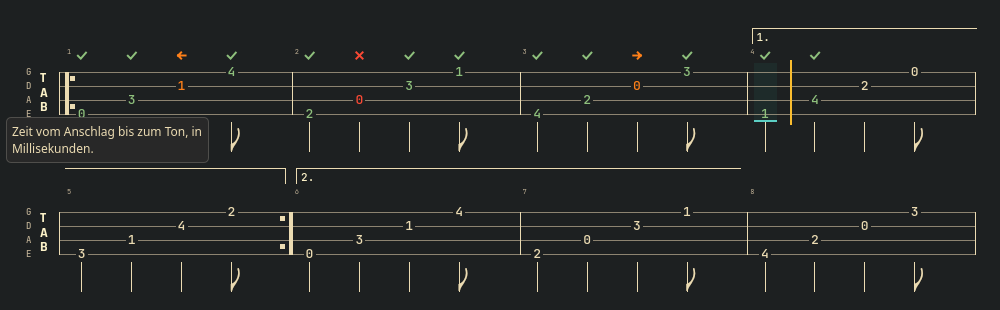
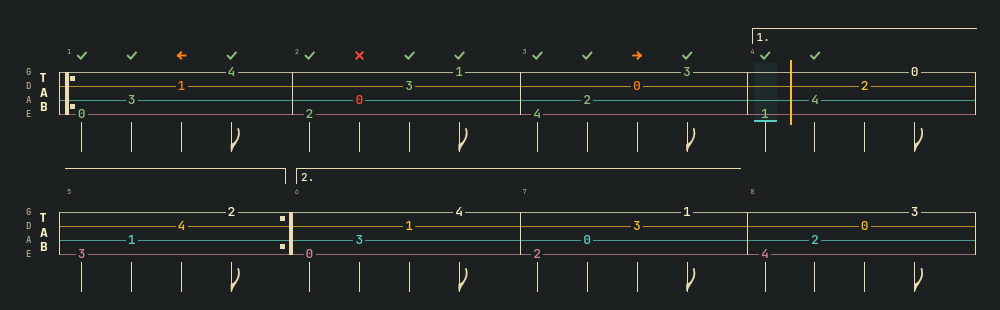
Move the string palette into KanteStyle
Owner's decision (Kontra round 8): one string palette for lane,
tablature and fretboard, so a player sees each string in the same
colour everywhere. KanteStyle gets stringPalettes ("kante", "mono",
"bright", the presets Kontra offers), stringPalette (the app's
choice), stringColor(s, preset) and stringColors(count, preset).
KanteTabStaff and KanteFretboard take stringColors like the lane; a
string left out follows the palette. "kante" is the lane's old
palette, so the lane looks the same; staff and fretboard lines were
muted and now follow it. Strings keep their names, states keep their
colours and signs. Roles only, no new tokens.

diff --git a/docs/index.html b/docs/index.html
@@ -153,23 +153,26 @@
             <li><code>KanteSegmented</code> and <code>.seg</code>: single segments can be disabled. They are faded and struck through, take no click, arrow keys skip them, and their tooltip can say why.</li>
             <li><code>KanteFieldSkin</code>: on a spin box, + or − fades when the value is at its limit.</li>
             <li><code>KanteTabStaff</code>, <code>KanteBassStaff</code>, <code>KanteTabLane</code>: bars show the number the app sends (<code>bars[i].number</code>), so repeats played out read 5, 6, 5, 6 as in the score.</li>
+            <li>String colours: the palette moves into <code>KanteStyle</code> with the presets “kante”, “mono” and “bright”; lane, tablature and fretboard share it (<code>stringColors</code>). Strings keep their names, so colour is never the only sign.</li>
           </ul>
           <ul lang="de">
             <li><code>KanteSegmented</code> und <code>.seg</code>: einzelne Segmente lassen sich abschalten. Sie sind blass und durchgestrichen, nehmen keinen Klick an, die Pfeiltasten überspringen sie, und ihr Tooltip kann sagen, warum.</li>
             <li><code>KanteFieldSkin</code>: an einem Zahlenfeld wird + oder − blass, wenn der Wert an seiner Grenze ist.</li>
             <li><code>KanteTabStaff</code>, <code>KanteBassStaff</code>, <code>KanteTabLane</code>: Takte zeigen die Nummer, die die App schickt (<code>bars[i].number</code>), ausgespielte Wiederholungen lesen sich so wie in den Noten: 5, 6, 5, 6.</li>
+            <li>Saitenfarben: die Palette zieht nach <code>KanteStyle</code>, mit den Vorgaben „kante“, „mono“ (einfarbig) und „bright“ (kräftig); Spur, Tabulatur und Griffbrett teilen sie (<code>stringColors</code>). Saiten behalten ihre Namen, die Farbe ist nie das einzige Zeichen.</li>
           </ul>
         </div>
         <div class="release-group" data-kind="note"><h3><span lang="en">Note</span><span lang="de">Hinweis</span></h3>
           <ul lang="en">
-            <li>Additions only: existing calls keep working. A tablature without <code>endings</code> keeps its layout.</li>
+            <li>Additions only: existing calls keep working. A tablature without <code>endings</code> keeps its layout. Tablature and fretboard now draw their strings in the string palette instead of muted; <code>stringPalette: "mono"</code> comes closest to the old look.</li>
           </ul>
           <ul lang="de">
-            <li>Nur Ergänzungen: bestehende Aufrufe funktionieren weiter. Eine Tabulatur ohne <code>endings</code> behält ihr Layout.</li>
+            <li>Nur Ergänzungen: bestehende Aufrufe funktionieren weiter. Eine Tabulatur ohne <code>endings</code> behält ihr Layout. Tabulatur und Griffbrett zeichnen ihre Saiten jetzt in der Saitenpalette statt gedämpft; <code>stringPalette: "mono"</code> kommt dem alten Bild am nächsten.</li>
           </ul>
         </div>
         <div class="release-shots">
           <figure><img src="shots/release-1.28-wishes2-controls.png" alt="Segmented controls with struck-through disabled segments, an open info tip and five spin boxes in Kante" loading="lazy"><figcaption><span lang="en">Disabled segments, info tip and spin boxes (demo data)</span><span lang="de">Abgeschaltete Segmente, Info-Tipp und Zahlenfelder (Demodaten)</span></figcaption></figure>
+          <figure><img src="shots/release-1.28-strings.png" alt="Lane, tablature and fretboard in the string palettes kante, mono and bright" loading="lazy"><figcaption><span lang="en">String palettes kante, mono, bright (demo data)</span><span lang="de">Saitenpaletten kante, mono, bright (Demodaten)</span></figcaption></figure>
           <figure><img src="shots/release-1.28-volta.png" alt="Tablature with a first ending across a line break, closed after the repeat sign, and an open second ending" loading="lazy"><figcaption><span lang="en">Volta brackets in the tablature (demo data)</span><span lang="de">Wiederholungsklammern in der Tabulatur (Demodaten)</span></figcaption></figure>
         </div>
         <a class="release-notes" href="https://github.com/shrippen/Kante/blob/main/README.md#added-in-kante-128"><span lang="en">All changes in 1.28 →</span><span lang="de">Alle Änderungen in 1.28 →</span></a>

diff --git a/proposals/2026-10-kontra/bauteile.html b/proposals/2026-10-kontra/bauteile.html
@@ -27,6 +27,7 @@
 <section><h2 class="block-title">1.27 · chord symbols and key changes</h2><p><code>KanteBassStaff</code>: chord symbols per bar and at a time above the staff (♯ and ♭ typeset); a key per bar: G, D, F, C (3/4) and A major in turn with a thin double bar line before each change; naturals stand only alone, when the key returns to C; a change at the start of a line shows in its header. Below: E flat to E major (just four sharps), to D major (just two sharps), then to C (two naturals, alone).</p><div class="pair"><figure><img src="chords-keys-kante.png" alt="Bass staff with chord symbols G, Em7, D, Bm7b5, F, Bb, C, F#m and key changes"><figcaption>Kante</figcaption></figure><figure><img src="chords-keys-light.png" alt="The same in Kante Light"><figcaption>Kante Light</figcaption></figure></div></section>
 <section><h2 class="block-title">1.28 · disabled segments, info tip, spin box</h2><p>Wishes from Kontra (2). <code>KanteSegmented.disabledIndexes</code>: a choice that is not available yet (an input that comes later) is faded and struck through, takes no click, and the arrow keys skip it; its tooltip still says why. <code>KanteInfoTip</code>: a "?" next to a term; the text shows on hover, focus or click (here open after a click). <code>KanteSpinBox</code>: <code>KanteFieldSkin</code> on a spin box, with <code>textFromValue</code> ("90 BPM", "± 35 ms"); focused (cyan edge), at its limit (+ faded), invalid (red edge) and disabled.</p><div class="pair"><figure><img src="wishes2-controls-kante.png" alt="Two segmented controls with struck-through disabled segments, an open info tip, five spin boxes: normal, focused, at the limit, invalid, disabled"><figcaption>Kante</figcaption></figure><figure><img src="wishes2-controls-light.png" alt="The same in Kante Light: platform spin boxes and tool buttons"><figcaption>Kante Light (platform colours, Fusion controls)</figcaption></figure></div></section>
 <section><h2 class="block-title">1.28 · volta brackets</h2><p><code>KanteTabStaff</code>: <code>bars[i].endings</code> as written (<code>[1]</code>, <code>[1, 2]</code>). The first ending runs over bars 4 and 5, across the line break (the continuation has no number and no hook), and closes with the repeat sign; the second ending is open. The bracket row only appears when a bar has endings. Bar numbers: <code>bars[i].number</code> labels a bar with the number the app sends (the written one, so unrolled repeats read 5, 6, 5, 6) in tablature, bass staff and lane; without it the index + 1 as before.</p><div class="pair"><figure><img src="volta-kante.png" alt="Two lines of tablature with a first ending over bars 4 and 5, closed after the repeat sign, and an open second ending over bars 6 and 7"><figcaption>Kante</figcaption></figure><figure><img src="volta-light.png" alt="The same in Kante Light"><figcaption>Kante Light</figcaption></figure></div></section>
+<section><h2 class="block-title">1.28 · string colours</h2><p>The string palette lives in <code>KanteStyle</code> now (<code>stringPalette</code>, <code>stringColor(s, preset)</code>, <code>stringColors(count, preset)</code>), and lane, tablature and fretboard share it through <code>stringColors</code>. Rows: the presets "kante", "mono" and "bright". Strings keep their names, so colour is never the only sign; note states keep their own colours and signs.</p><div class="pair"><figure><img src="strings-kante.png" alt="Lane, tablature and fretboard in the three string palettes kante, mono and bright"><figcaption>Kante</figcaption></figure><figure><img src="strings-light.png" alt="The same in Kante Light"><figcaption>Kante Light (platform colours)</figcaption></figure></div></section>
 <section><h2 class="block-title">Large fonts</h2><p>Font DPI doubled (<code>QT_FONT_DPI=192</code>): grid unit and every size follow, nothing is cut off. Halved for this page.</p><figure><img src="large-fonts-kante.png" alt="Transport, tuner, level, fretboard and bass staff with doubled font size"></figure></section>
 </main>
 </body>

diff --git a/qml/Kante/KanteTabStaff.qml b/qml/Kante/KanteTabStaff.qml
@@ -11,6 +11,9 @@ import "."
  *
  *   strings, stringNames, lowStringOnTop   as KanteTabLane (string 0 = lowest; the
  *                                          highest string on top by default)
+ *   stringColors as KanteTabLane (1.28): colours the string lines and the fret numbers of
+ *                pending notes (and of all notes in Quiet marks; in Full the state colour
+ *                wins); where missing KanteStyle.stringColor (the app's `stringPalette`)
  *   notes        [{time, duration, beats, string, fret, state, label, cents}], sorted by time;
  *                time and duration in seconds, beats = duration in quarter notes (1 a
  *                quarter, 0.5 an eighth, 1.5 a dotted quarter). Notes with the same time
@@ -52,6 +55,8 @@ Item {
     property int strings: 4
     property var stringNames: ["E", "A", "D", "G"]
     property bool lowStringOnTop: false
+    /** Colour per string, 0 = lowest (1.28); where missing KanteStyle.stringColor. */
+    property var stringColors: []
     property var notes: []
     property var bars: []
     property real position: 0
@@ -185,6 +190,12 @@ Item {
         }
     }
 
+    function stringColor(s) {
+        if (stringColors && s < stringColors.length && stringColors[s] !== undefined) {
+            return stringColors[s]
+        }
+        return KanteStyle.stringColor(s)
+    }
     function nameOf(s) {
         return stringNames && s < stringNames.length ? String(stringNames[s]) : String(s + 1)
     }
@@ -302,7 +313,8 @@ Item {
                 continue
             }
             for (var l = 0; l < nstr; l++) {
-                L.lines.push({ x: headerWidth - ls * 0.4, y: top + l * ls, w: right - headerWidth + ls * 0.4, h: 1, kind: "line" })
+                L.lines.push({ x: headerWidth - ls * 0.4, y: top + l * ls, w: right - headerWidth + ls * 0.4, h: 1, kind: "line",
+                               str: lowTop ? l : nstr - 1 - l })
             }
             L.heads.push({ y: top, sys: s })
             L.lines.push({ x: headerWidth - ls * 0.4, y: top, w: 1, h: staffHeight + 1, kind: "bar" })
@@ -360,8 +372,9 @@ Item {
             var b = barAt(t)
             var x = xOf(t, b)
             var sys = sysOf(b)
-            var y = sys * systemHeight + staffTop + rowOf(Math.max(0, Math.min(nstr - 1, Number(n.string) || 0))) * ls
-            L.frets.push({ x: x, y: y, text: n.fret !== undefined ? String(n.fret) : "", index: i, label: n.label || "" })
+            var str = Math.max(0, Math.min(nstr - 1, Number(n.string) || 0))
+            var y = sys * systemHeight + staffTop + rowOf(str) * ls
+            L.frets.push({ x: x, y: y, text: n.fret !== undefined ? String(n.fret) : "", index: i, label: n.label || "", str: str })
             L.boxes[i] = { x: x, sys: sys }
             var prev = onsets.length ? onsets[onsets.length - 1] : null
             if (prev && Math.abs(prev.t - t) < 1e-3) {
@@ -457,7 +470,7 @@ Item {
             y: modelData.y
             width: modelData.w
             height: modelData.h
-            color: modelData.kind === "line" ? KanteStyle.mutedTextColor
+            color: modelData.kind === "line" ? staff.stringColor(modelData.str)
                  : modelData.kind === "bar" ? KanteStyle.textColor : KanteStyle.textColor
             opacity: modelData.kind === "line" ? 0.7 : 1
         }
@@ -578,7 +591,7 @@ Item {
                 text: parent.modelData.text
                 readonly property string st: staff.shownState(parent.modelData.index, staff.stateRevision)
                 color: st === "pending" || staff.marks !== KanteTabStaff.Marks.Full
-                     ? (parent.current ? KanteStyle.strongTextColor : KanteStyle.textColor)
+                     ? (parent.current ? KanteStyle.strongTextColor : staff.stringColor(parent.modelData.str))
                      : KanteStyle.noteStateColor(st)
                 font.family: nameMetrics.font.family
                 font.weight: parent.current ? Font.Bold : Font.Medium

diff --git a/qml/tests/tst_kante128.qml b/qml/tests/tst_kante128.qml
@@ -21,6 +21,7 @@ TestCase {
 
     function cleanup() {
         KanteStyle.kind = KanteStyle.Kind.System
+        KanteStyle.stringPalette = "kante"
     }
 
     readonly property var kinds: [KanteStyle.Kind.System, KanteStyle.Kind.Kante, KanteStyle.Kind.KanteLight]
@@ -334,5 +335,54 @@ TestCase {
         waitForRendering(l)
         var shown = texts(l, function (t) { return t.text === "5" || t.text === "6" })
         verify(shown.length >= 2, "written numbers drawn: " + shown.length)
+    }
+
+    // ── String colours in KanteStyle ─────────────────────────────────
+    Component { id: fretComponent; KanteFretboard { width: 600; height: 160 } }
+
+    function test_stringPalettes() {
+        for (var k = 0; k < kinds.length; k++) {
+            KanteStyle.kind = kinds[k]
+            compare(KanteStyle.stringPalettes.join(","), "kante,mono,bright")
+            compare(String(KanteStyle.stringColor(0)), String(KanteStyle.tagColor), "kante: string 0 purple, as the lane had it")
+            compare(String(KanteStyle.stringColor(1)), String(KanteStyle.focusColor))
+            compare(String(KanteStyle.stringColor(6)), String(KanteStyle.stringColor(0)), "repeats after six")
+            compare(String(KanteStyle.stringColor(3, "mono")), String(KanteStyle.strongTextColor))
+            compare(String(KanteStyle.stringColor(0, "bright")), String(KanteStyle.warningColor))
+            compare(KanteStyle.stringColors(5).length, 5)
+            compare(KanteStyle.stringColors().length, 6)
+            KanteStyle.stringPalette = "bright"
+            compare(String(KanteStyle.stringColor(0)), String(KanteStyle.warningColor), "the app's preset")
+            KanteStyle.stringPalette = "kante"
+        }
+    }
+
+    function test_stringColorsInAllThree() {
+        KanteStyle.kind = KanteStyle.Kind.Kante
+        var lane = createTemporaryObject(laneComponent, stage())
+        var tab = createTemporaryObject(staffComponent, stage(), { notes: notes8().slice(0, 8), bars: [0, 2, 4, 6] })
+        var board = createTemporaryObject(fretComponent, stage())
+        var all = [lane, tab, board]
+        for (var i = 0; i < all.length; i++) {
+            compare(String(all[i].stringColor(2)), String(KanteStyle.stringColor(2)), "default: the KanteStyle palette")
+        }
+        // The tab staff colours its string lines (G on top: the highest string, 3, in row 0).
+        var line = tab.layout.lines.filter(function (l) { return l.kind === "line" })[0]
+        compare(line.str, 3)
+        // The app's preset reaches all three.
+        KanteStyle.stringPalette = "mono"
+        for (i = 0; i < all.length; i++) {
+            compare(String(all[i].stringColor(0)), String(KanteStyle.strongTextColor))
+        }
+        // One list for all three; a string it leaves out takes the palette.
+        var one = [KanteStyle.negativeTextColor, KanteStyle.positiveTextColor]
+        for (i = 0; i < all.length; i++) {
+            all[i].stringColors = one
+            compare(String(all[i].stringColor(1)), String(KanteStyle.positiveTextColor))
+            compare(String(all[i].stringColor(2)), String(KanteStyle.strongTextColor))
+        }
+        // Colour is not the only sign: the strings keep their names.
+        waitForRendering(board)
+        verify(texts(board, function (t) { return t.text === "G" }).length >= 1)
     }
 }

diff --git a/qml/Kante/KanteStyle.qml b/qml/Kante/KanteStyle.qml
@@ -192,6 +192,35 @@ QtObject {
         var n = noteStateNames && noteStateNames[state]
         return n !== undefined ? String(n) : String(noteStateNames && noteStateNames.pending || "")
     }
+    /**
+     * String colours (Kante 1.28), one per string, string 0 = the lowest, kept apart from the
+     * note state colours. Presets (`stringPalettes`): "kante" six roles that differ in hue
+     * (purple, cyan, yellow, strong text, muted, info), "mono" every string in the strong
+     * text colour, "bright" the strong signal colours (orange, info, yellow, purple, cyan,
+     * strong text). `stringPalette` is the app's choice, set once; KanteTabLane, KanteTabStaff
+     * and KanteFretboard follow it where their `stringColors` leave a string out. Colour is
+     * never the only sign: strings keep their names and rows.
+     */
+    readonly property var stringPalettes: ["kante", "mono", "bright"]
+    property string stringPalette: "kante"
+    /** Colour of string s (0 = lowest) in `preset` (default `stringPalette`); repeats after six. */
+    function stringColor(s, preset) {
+        var p = preset !== undefined && preset !== null && preset !== "" ? String(preset) : stringPalette
+        var list = p === "mono" ? [strongTextColor]
+            : p === "bright" ? [warningColor, infoColor, accentTextColor, tagColor, focusColor, strongTextColor]
+            : [tagColor, focusColor, accentTextColor, strongTextColor, mutedTextColor, infoColor]
+        var i = Math.max(0, Math.floor(Number(s) || 0))
+        return list[i % list.length]
+    }
+    /** The colours of `count` strings (default 6) in `preset`, e.g. for `stringColors`. */
+    function stringColors(count, preset) {
+        var out = []
+        var n = count === undefined ? 6 : Math.max(0, Number(count) || 0)
+        for (var s = 0; s < n; s++) {
+            out.push(stringColor(s, preset))
+        }
+        return out
+    }
     /** Text colour for a label on a filled `fill`: the ground or the strong text, whichever reads better. */
     function inkOn(fill) {
         var a = Qt.rgba(backgroundColor.r, backgroundColor.g, backgroundColor.b, 1)

diff --git a/qml/Kante/KanteFretboard.qml b/qml/Kante/KanteFretboard.qml
@@ -6,6 +6,9 @@ import "."
  * notes and positions. Presentational: the app sets the markers.
  *
  *   strings, stringNames, lowStringOnTop  as KanteTabLane (string 0 = lowest)
+ *   stringColors         as KanteTabLane (1.28): colours the string lines; where missing
+ *                        KanteStyle.stringColor (the app's `stringPalette`). Markers keep
+ *                        their role colours and shapes
  *   frets, firstFret     frets shown: firstFret + 1 .. firstFret + frets; with
  *                        firstFret 0 the nut and a column for open strings (fret 0)
  *   markers              [{string, fret, role, label}]; role:
@@ -28,6 +31,8 @@ Item {
     property int firstFret: 0
     property var markers: []
     property bool lowStringOnTop: false
+    /** Colour per string, 0 = lowest (1.28); where missing KanteStyle.stringColor. */
+    property var stringColors: []
     property bool leftHanded: false
     property bool evenFrets: false
     property var inlays: [3, 5, 7, 9, 12, 15, 17, 19, 21, 24]
@@ -83,6 +88,12 @@ Item {
         text: "24"
     }
 
+    function stringColor(s) {
+        if (stringColors && s < stringColors.length && stringColors[s] !== undefined) {
+            return stringColors[s]
+        }
+        return KanteStyle.stringColor(s)
+    }
     function nameOf(s) {
         return stringNames && s < stringNames.length ? String(stringNames[s]) : String(s + 1)
     }
@@ -172,7 +183,7 @@ Item {
                                         : board.fretX(board.firstFret + board.frets) - x
                 height: Math.max(1, Math.round(KanteStyle.unit(1) + (board.strings - 1 - parent.index) * KanteStyle.unit(1) * 0.6))
                 y: -height / 2
-                color: KanteStyle.mutedTextColor
+                color: board.stringColor(parent.index)
             }
             Text {
                 x: board.leftHanded ? board.width - width - KanteStyle.unit(4) : KanteStyle.unit(4)

diff --git a/qml/Kante/KanteTabLane.qml b/qml/Kante/KanteTabLane.qml
@@ -9,8 +9,8 @@ import "."
  *
  *   strings, stringNames      lanes; string 0 is the lowest. `lowStringOnTop` false
  *                             (default) puts the highest string on top, as in a tab
- *   stringColors              optional colour per string (0 = lowest); the string
- *                             palette below where missing
+ *   stringColors              optional colour per string (0 = lowest); where missing
+ *                             KanteStyle.stringColor (the app's `stringPalette`, 1.28)
  *   notes                     [{time, duration, string, fret, state, label, cents}],
  *                             sorted by time; seconds. state: "pending", "hit", "wrong",
  *                             "missed", "early", "late", "offpitch" (1.27). cents: how
@@ -207,9 +207,7 @@ Item {
         if (stringColors && s < stringColors.length && stringColors[s] !== undefined) {
             return stringColors[s]
         }
-        var p = [KanteStyle.tagColor, KanteStyle.focusColor, KanteStyle.accentTextColor,
-                 KanteStyle.strongTextColor, KanteStyle.mutedTextColor, KanteStyle.infoColor]
-        return p[s % p.length]
+        return KanteStyle.stringColor(s)
     }
     function rowOf(s) {
         return lowStringOnTop ? s : strings - 1 - s

diff --git a/proposals/README.md b/proposals/README.md
@@ -8,7 +8,7 @@ Design reviews and proposals for Kante, kept as standalone HTML pages. They are 
 | [`2026-10-gold/`](2026-10-gold/) | Kante Gold, the noble variant for Kintsugi: principles, palette with contrast values, type, and the Kante 1.10 elements live in Gold (thread, steps with state, page titles, wrapping chips, shimmer, gilded edges, dialog fix), plus two Kintsugi screenshots. A full page (`data-kante="gold"`); rebuild by inlining `docs/v1/shrippen.css` and `shrippen.js` |
 | [`2026-10-leuchtfeuer/`](2026-10-leuchtfeuer/) | Kante 1.11 for the Leuchtfeuer web interface: app bar for phones (`.bottom-nav`), help popover (`details.help`), toast action, `.sr-only`, focus rings for `.seg` and `.switch`, and the existing `.editbar` (save bar) and `.fold` (advanced settings). `bauteile.html` links `docs/v1/shrippen.css` |
 | [`2026-10-andon/`](2026-10-andon/) | Kante 1.12 for Andon: the uptime strip (`svg.uptime`), one SVG with a path per state instead of one element per day. `bauteile.html` links `docs/v1/shrippen.css`. Kante 1.14: `detail.html`, the detail dialog in its layouts (record, slim record, timeline, list and detail, grid, wall, tabs, tasks, large view, waiting). Kante 1.19: `mobile.html`, the phone layouts (filter side, compact hint rows, nav drawer, tables as cards) |
-| [`2026-10-kontra/`](2026-10-kontra/) | Kante 1.23, 1.24, 1.27 and 1.28 for Kontra, the bass trainer: `bauteile.html` shows the practice components (tab lane, tablature, bass staff, fretboard, tuner, level meter, timing histogram, transport, note states, the Full / Quiet / Off marks) as screenshots in Kante and Kante Light, plus large-font checks; 1.27: switch and combo box, the primary button in Kante Light, steps with signs, the note state "offpitch" with cents, chord symbols and key changes; 1.28: disabled segments, info tip, spin box, volta brackets |
+| [`2026-10-kontra/`](2026-10-kontra/) | Kante 1.23, 1.24, 1.27 and 1.28 for Kontra, the bass trainer: `bauteile.html` shows the practice components (tab lane, tablature, bass staff, fretboard, tuner, level meter, timing histogram, transport, note states, the Full / Quiet / Off marks) as screenshots in Kante and Kante Light, plus large-font checks; 1.27: switch and combo box, the primary button in Kante Light, steps with signs, the note state "offpitch" with cents, chord symbols and key changes; 1.28: disabled segments, info tip, spin box, volta brackets, bar numbers, string colours in KanteStyle |
 | [`2026-10-kohaerenz/`](2026-10-kohaerenz/) | Coherence review after 1.5 to 1.12: five breaks (warning yellow vs orange, `--yellow` fills instead of `--primary`, two selection languages, heights and bars without a scale, Kante Light and Gold only knowing 1.4), each with the state and the proposal side by side, and evidence from Andon. Frozen with the 1.12 stylesheet inlined; implemented in Kante 1.13 |
 | [`2026-10-kaiwa/`](2026-10-kaiwa/) | Gap report for Kaiwa (Japanese conversation trainer, Qt / Kirigami, Plasma widget): what it takes as it is, and seven missing elements as sketches with a proposed CSS and QML API and one decision each (D-1 to D-7, decided 2026-10-09: muted readings, own heard line, talk button stays at 48 px, severities as shown, cyan pitch line, new path component, segments in the panel). `bauteile.html`: the Kante 1.25 QML components as built, shots in Kante and Kante Light: ruby text (furigana), turn tools and the "heard as" line, the talk button with five states, correction diff in the hint card, pitch curve, learning path, daily goal in the panel. `index.html` links `docs/v1/shrippen.css`; Dark / Leinen switch at the top |
 

diff --git a/README.md b/README.md
@@ -765,6 +765,7 @@ Wishes from Kontra, the bass trainer (2): input choices that are not available y
 | Spin box | `input.input` with `type="number"` (the text field) | `KanteSpinBox`: a `QQC2.SpinBox` with `KanteFieldSkin`, same API (`from`, `to`, `stepSize`, `value`, `editable`, `textFromValue`, `valueFromText`, `validator`, `valueModified()`, keys Up / Down), `invalid` for a red bottom edge, 40 px high in Kante. `KanteFieldSkin` (every spin box with it): + or − fades at its limit and when disabled (`atLimit(dir)`). Kante Light keeps the platform's spin box |
 | Volta brackets | – | `KanteTabStaff`: `bars[i].endings`, the alternate endings a bar belongs to as written, e.g. `[1]`, `[2]` or `[1, 2]` (a number n reads as `[n]`; left out or `[]` for none). Bars in a row with the same endings share one bracket above the bar numbers, numbered "1." or "1., 2." at its start; closed on the right when its last bar has `repeatEnd`, else open (the last ending). A bracket that runs on to the next line goes on there without number and hook. With endings the staff moves down by the bracket row (`endingRow`), without them the layout is the old one. Screen readers hear "Volta 1" for the current bar (`endingText`, "Volta %1") |
 | Written bar numbers | – | `KanteTabStaff`, `KanteBassStaff`, `KanteTabLane`: `bars[i].number`, the bar's label as the app sends it (a number or a string, e.g. the written bar number), so unrolled repeats read "5, 6, 5, 6" as in the score; left out, empty or `null`: index + 1 as before. The staffs' screen-reader text says it too ("Takt 5 von 32": %1 the label, %2 still the count of bars played). Bars the bass staff adds after the last given one count on from its number |
+| String colours | – | The string palette moves from `KanteTabLane` into `KanteStyle` (owner's decision, Kontra round 8): `stringPalettes` ["kante", "mono", "bright"], `stringPalette` (the app's preset, default "kante", set once), `stringColor(s, preset)` (string 0 = lowest, repeats after six; `preset` defaults to `stringPalette`), `stringColors(count, preset)` (a list, count default 6). "kante": purple, cyan, yellow, strong text, muted, info (the lane's old palette); "mono": every string in the strong text colour; "bright": orange, info, yellow, purple, cyan, strong text. Roles only, no new tokens. `KanteTabLane`, `KanteTabStaff` and `KanteFretboard` share `stringColors` (list, 0 = lowest; a string it leaves out takes `KanteStyle.stringColor`), so an app passes one list, or sets `KanteStyle.stringPalette` and passes nothing. Tab staff: string lines and the fret numbers of pending notes (all notes in Quiet marks; in Full the state colour wins, the current note stays strong); fretboard: string lines (markers keep their role colours and shapes). Colour is never the only sign: strings keep their names and rows. Note: tab staff and fretboard drew their strings muted before; they now follow the palette |
 
 ### Kante Gold
 
